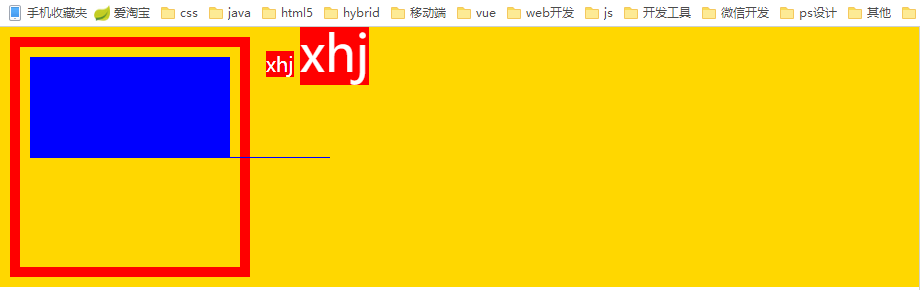
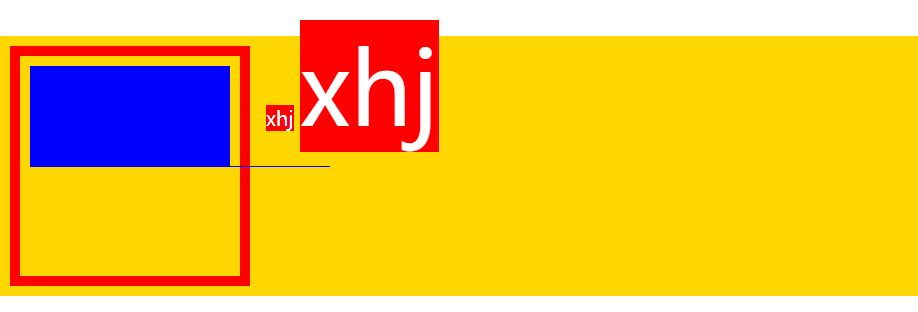
[master]

Changed region(s): [[0.0, 0.0, 1.0, 0.5586], [0.0, 0.869, 1.0, 0.9931]]

diff --git a/_posts/其他/2021-09-22-深入理解vertical-align.md b/_posts/其他/2021-09-22-深入理解vertical-align.md
@@ -63,7 +63,7 @@ tags:
         }
 
         .wrap {
-            line-height: 50px;
+            line-height: 100px;
             background-color: gold;
             font-size: 20px;
             color: #ffffff;
@@ -122,9 +122,10 @@ tags:
         }
 
         .wrap {
-            line-height: 50px;
+            line-height: 100px;
             background-color: gold;
             font-size: 20px;
+            color: #ffffff;
         }
 
         .wrap span {
@@ -162,7 +163,7 @@ tags:
             <i class="line"></i>
         </div>
         <span>xhj</span>
-        <span style="font-size:50px;">xhj</span>
+        <span style="font-size:100px;">xhj</span>
     </div>
 </body>
 
@@ -184,7 +185,7 @@ tags:
         <i class="line"></i>
     </div>
     <span>xhj</span>
-    <span class="child" style="font-size:50px;">xhj</span>
+    <span class="child" style="font-size:100px;">xhj</span>
 </div>
 ```
 
@@ -205,7 +206,7 @@ tags:
         <i class="line"></i>
     </div>
     <span>xhj</span>
-    <span class="child" style="font-size:50px;">xhj</span>
+    <span class="child" style="font-size:100px;">xhj</span>
 </div>
 ```
 
@@ -224,7 +225,7 @@ tags:
         <i class="line"></i>
     </div>
     <span>xhj</span>
-    <span class="child" style="font-size:50px;">xhj</span>
+    <span class="child" style="font-size:100px;">xhj</span>
 </div>
 ```
 
@@ -243,7 +244,7 @@ tags:
         <i class="line"></i>
     </div>
     <span>xhj</span>
-    <span class="child" style="font-size:50px;">xhj</span>
+    <span class="child" style="font-size:100px;">xhj</span>
 </div>
 ```
 
